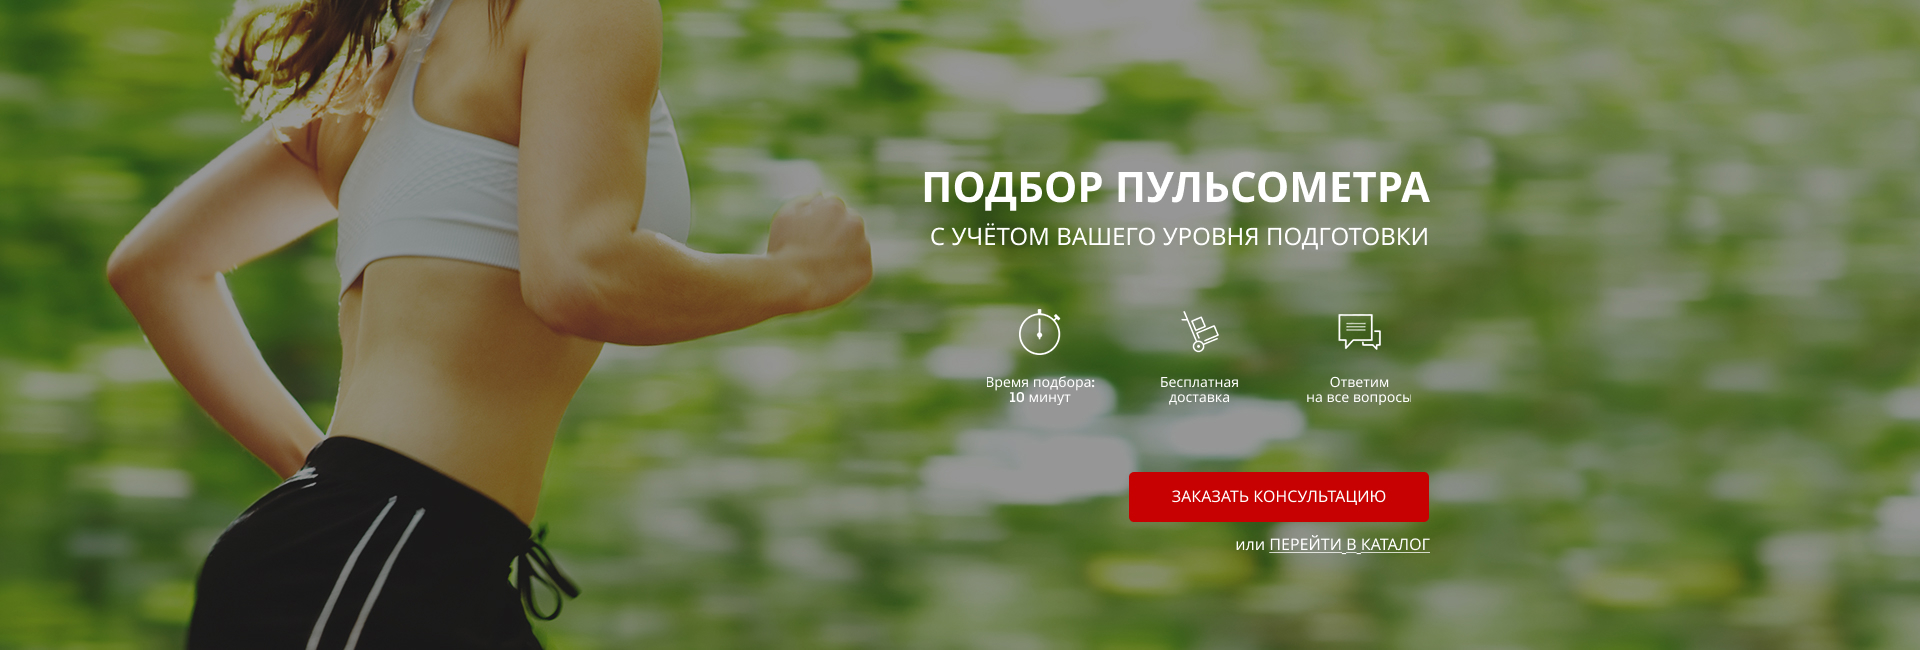
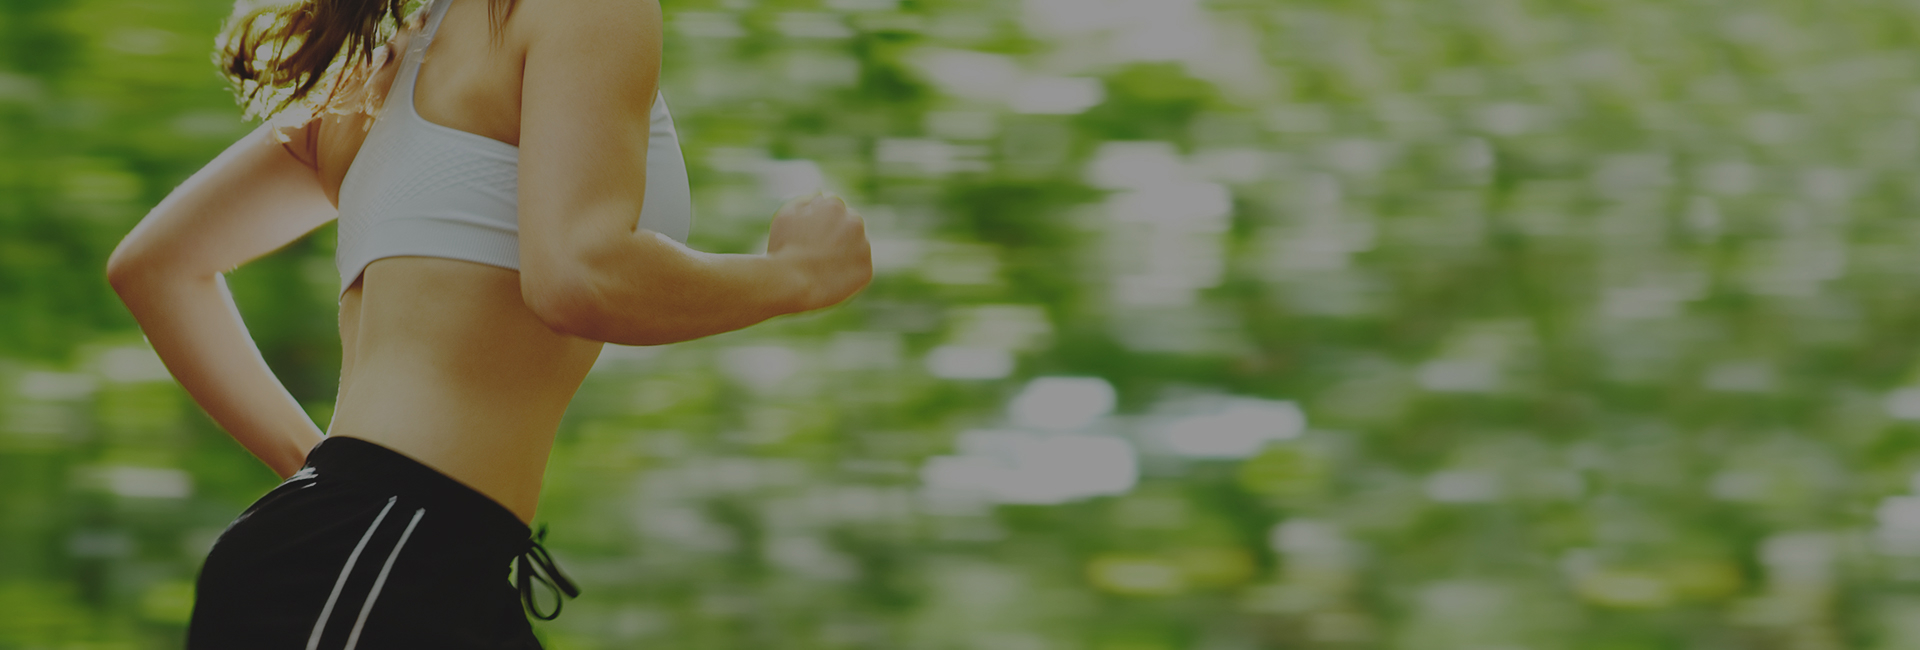
first section created

diff --git a/src/css/bootstrap-reboot.min.css b/src/css/bootstrap-reboot.min.css
@@ -1,0 +1,6 @@
+/*!
+ * Bootstrap Reboot v5.3.3 (https://getbootstrap.com/)
+ * Copyright 2011-2024 The Bootstrap Authors
+ * Licensed under MIT (https://github.com/twbs/bootstrap/blob/main/LICENSE)
+ */:root,[data-bs-theme=light]{--bs-blue:#0d6efd;--bs-indigo:#6610f2;--bs-purple:#6f42c1;--bs-pink:#d63384;--bs-red:#dc3545;--bs-orange:#fd7e14;--bs-yellow:#ffc107;--bs-green:#198754;--bs-teal:#20c997;--bs-cyan:#0dcaf0;--bs-black:#000;--bs-white:#fff;--bs-gray:#6c757d;--bs-gray-dark:#343a40;--bs-gray-100:#f8f9fa;--bs-gray-200:#e9ecef;--bs-gray-300:#dee2e6;--bs-gray-400:#ced4da;--bs-gray-500:#adb5bd;--bs-gray-600:#6c757d;--bs-gray-700:#495057;--bs-gray-800:#343a40;--bs-gray-900:#212529;--bs-primary:#0d6efd;--bs-secondary:#6c757d;--bs-success:#198754;--bs-info:#0dcaf0;--bs-warning:#ffc107;--bs-danger:#dc3545;--bs-light:#f8f9fa;--bs-dark:#212529;--bs-primary-rgb:13,110,253;--bs-secondary-rgb:108,117,125;--bs-success-rgb:25,135,84;--bs-info-rgb:13,202,240;--bs-warning-rgb:255,193,7;--bs-danger-rgb:220,53,69;--bs-light-rgb:248,249,250;--bs-dark-rgb:33,37,41;--bs-primary-text-emphasis:#052c65;--bs-secondary-text-emphasis:#2b2f32;--bs-success-text-emphasis:#0a3622;--bs-info-text-emphasis:#055160;--bs-warning-text-emphasis:#664d03;--bs-danger-text-emphasis:#58151c;--bs-light-text-emphasis:#495057;--bs-dark-text-emphasis:#495057;--bs-primary-bg-subtle:#cfe2ff;--bs-secondary-bg-subtle:#e2e3e5;--bs-success-bg-subtle:#d1e7dd;--bs-info-bg-subtle:#cff4fc;--bs-warning-bg-subtle:#fff3cd;--bs-danger-bg-subtle:#f8d7da;--bs-light-bg-subtle:#fcfcfd;--bs-dark-bg-subtle:#ced4da;--bs-primary-border-subtle:#9ec5fe;--bs-secondary-border-subtle:#c4c8cb;--bs-success-border-subtle:#a3cfbb;--bs-info-border-subtle:#9eeaf9;--bs-warning-border-subtle:#ffe69c;--bs-danger-border-subtle:#f1aeb5;--bs-light-border-subtle:#e9ecef;--bs-dark-border-subtle:#adb5bd;--bs-white-rgb:255,255,255;--bs-black-rgb:0,0,0;--bs-font-sans-serif:system-ui,-apple-system,"Segoe UI",Roboto,"Helvetica Neue","Noto Sans","Liberation Sans",Arial,sans-serif,"Apple Color Emoji","Segoe UI Emoji","Segoe UI Symbol","Noto Color Emoji";--bs-font-monospace:SFMono-Regular,Menlo,Monaco,Consolas,"Liberation Mono","Courier New",monospace;--bs-gradient:linear-gradient(180deg, rgba(255, 255, 255, 0.15), rgba(255, 255, 255, 0));--bs-body-font-family:var(--bs-font-sans-serif);--bs-body-font-size:1rem;--bs-body-font-weight:400;--bs-body-line-height:1.5;--bs-body-color:#212529;--bs-body-color-rgb:33,37,41;--bs-body-bg:#fff;--bs-body-bg-rgb:255,255,255;--bs-emphasis-color:#000;--bs-emphasis-color-rgb:0,0,0;--bs-secondary-color:rgba(33, 37, 41, 0.75);--bs-secondary-color-rgb:33,37,41;--bs-secondary-bg:#e9ecef;--bs-secondary-bg-rgb:233,236,239;--bs-tertiary-color:rgba(33, 37, 41, 0.5);--bs-tertiary-color-rgb:33,37,41;--bs-tertiary-bg:#f8f9fa;--bs-tertiary-bg-rgb:248,249,250;--bs-heading-color:inherit;--bs-link-color:#0d6efd;--bs-link-color-rgb:13,110,253;--bs-link-decoration:underline;--bs-link-hover-color:#0a58ca;--bs-link-hover-color-rgb:10,88,202;--bs-code-color:#d63384;--bs-highlight-color:#212529;--bs-highlight-bg:#fff3cd;--bs-border-width:1px;--bs-border-style:solid;--bs-border-color:#dee2e6;--bs-border-color-translucent:rgba(0, 0, 0, 0.175);--bs-border-radius:0.375rem;--bs-border-radius-sm:0.25rem;--bs-border-radius-lg:0.5rem;--bs-border-radius-xl:1rem;--bs-border-radius-xxl:2rem;--bs-border-radius-2xl:var(--bs-border-radius-xxl);--bs-border-radius-pill:50rem;--bs-box-shadow:0 0.5rem 1rem rgba(0, 0, 0, 0.15);--bs-box-shadow-sm:0 0.125rem 0.25rem rgba(0, 0, 0, 0.075);--bs-box-shadow-lg:0 1rem 3rem rgba(0, 0, 0, 0.175);--bs-box-shadow-inset:inset 0 1px 2px rgba(0, 0, 0, 0.075);--bs-focus-ring-width:0.25rem;--bs-focus-ring-opacity:0.25;--bs-focus-ring-color:rgba(13, 110, 253, 0.25);--bs-form-valid-color:#198754;--bs-form-valid-border-color:#198754;--bs-form-invalid-color:#dc3545;--bs-form-invalid-border-color:#dc3545}[data-bs-theme=dark]{color-scheme:dark;--bs-body-color:#dee2e6;--bs-body-color-rgb:222,226,230;--bs-body-bg:#212529;--bs-body-bg-rgb:33,37,41;--bs-emphasis-color:#fff;--bs-emphasis-color-rgb:255,255,255;--bs-secondary-color:rgba(222, 226, 230, 0.75);--bs-secondary-color-rgb:222,226,230;--bs-secondary-bg:#343a40;--bs-secondary-bg-rgb:52,58,64;--bs-tertiary-color:rgba(222, 226, 230, 0.5);--bs-tertiary-color-rgb:222,226,230;--bs-tertiary-bg:#2b3035;--bs-tertiary-bg-rgb:43,48,53;--bs-primary-text-emphasis:#6ea8fe;--bs-secondary-text-emphasis:#a7acb1;--bs-success-text-emphasis:#75b798;--bs-info-text-emphasis:#6edff6;--bs-warning-text-emphasis:#ffda6a;--bs-danger-text-emphasis:#ea868f;--bs-light-text-emphasis:#f8f9fa;--bs-dark-text-emphasis:#dee2e6;--bs-primary-bg-subtle:#031633;--bs-secondary-bg-subtle:#161719;--bs-success-bg-subtle:#051b11;--bs-info-bg-subtle:#032830;--bs-warning-bg-subtle:#332701;--bs-danger-bg-subtle:#2c0b0e;--bs-light-bg-subtle:#343a40;--bs-dark-bg-subtle:#1a1d20;--bs-primary-border-subtle:#084298;--bs-secondary-border-subtle:#41464b;--bs-success-border-subtle:#0f5132;--bs-info-border-subtle:#087990;--bs-warning-border-subtle:#997404;--bs-danger-border-subtle:#842029;--bs-light-border-subtle:#495057;--bs-dark-border-subtle:#343a40;--bs-heading-color:inherit;--bs-link-color:#6ea8fe;--bs-link-hover-color:#8bb9fe;--bs-link-color-rgb:110,168,254;--bs-link-hover-color-rgb:139,185,254;--bs-code-color:#e685b5;--bs-highlight-color:#dee2e6;--bs-highlight-bg:#664d03;--bs-border-color:#495057;--bs-border-color-translucent:rgba(255, 255, 255, 0.15);--bs-form-valid-color:#75b798;--bs-form-valid-border-color:#75b798;--bs-form-invalid-color:#ea868f;--bs-form-invalid-border-color:#ea868f}*,::after,::before{box-sizing:border-box}@media (prefers-reduced-motion:no-preference){:root{scroll-behavior:smooth}}body{margin:0;font-family:var(--bs-body-font-family);font-size:var(--bs-body-font-size);font-weight:var(--bs-body-font-weight);line-height:var(--bs-body-line-height);color:var(--bs-body-color);text-align:var(--bs-body-text-align);background-color:var(--bs-body-bg);-webkit-text-size-adjust:100%;-webkit-tap-highlight-color:transparent}hr{margin:1rem 0;color:inherit;border:0;border-top:var(--bs-border-width) solid;opacity:.25}h1,h2,h3,h4,h5,h6{margin-top:0;margin-bottom:.5rem;font-weight:500;line-height:1.2;color:var(--bs-heading-color)}h1{font-size:calc(1.375rem + 1.5vw)}@media (min-width:1200px){h1{font-size:2.5rem}}h2{font-size:calc(1.325rem + .9vw)}@media (min-width:1200px){h2{font-size:2rem}}h3{font-size:calc(1.3rem + .6vw)}@media (min-width:1200px){h3{font-size:1.75rem}}h4{font-size:calc(1.275rem + .3vw)}@media (min-width:1200px){h4{font-size:1.5rem}}h5{font-size:1.25rem}h6{font-size:1rem}p{margin-top:0;margin-bottom:1rem}abbr[title]{-webkit-text-decoration:underline dotted;text-decoration:underline dotted;cursor:help;-webkit-text-decoration-skip-ink:none;text-decoration-skip-ink:none}address{margin-bottom:1rem;font-style:normal;line-height:inherit}ol,ul{padding-left:2rem}dl,ol,ul{margin-top:0;margin-bottom:1rem}ol ol,ol ul,ul ol,ul ul{margin-bottom:0}dt{font-weight:700}dd{margin-bottom:.5rem;margin-left:0}blockquote{margin:0 0 1rem}b,strong{font-weight:bolder}small{font-size:.875em}mark{padding:.1875em;color:var(--bs-highlight-color);background-color:var(--bs-highlight-bg)}sub,sup{position:relative;font-size:.75em;line-height:0;vertical-align:baseline}sub{bottom:-.25em}sup{top:-.5em}a{color:rgba(var(--bs-link-color-rgb),var(--bs-link-opacity,1));text-decoration:underline}a:hover{--bs-link-color-rgb:var(--bs-link-hover-color-rgb)}a:not([href]):not([class]),a:not([href]):not([class]):hover{color:inherit;text-decoration:none}code,kbd,pre,samp{font-family:var(--bs-font-monospace);font-size:1em}pre{display:block;margin-top:0;margin-bottom:1rem;overflow:auto;font-size:.875em}pre code{font-size:inherit;color:inherit;word-break:normal}code{font-size:.875em;color:var(--bs-code-color);word-wrap:break-word}a>code{color:inherit}kbd{padding:.1875rem .375rem;font-size:.875em;color:var(--bs-body-bg);background-color:var(--bs-body-color);border-radius:.25rem}kbd kbd{padding:0;font-size:1em}figure{margin:0 0 1rem}img,svg{vertical-align:middle}table{caption-side:bottom;border-collapse:collapse}caption{padding-top:.5rem;padding-bottom:.5rem;color:var(--bs-secondary-color);text-align:left}th{text-align:inherit;text-align:-webkit-match-parent}tbody,td,tfoot,th,thead,tr{border-color:inherit;border-style:solid;border-width:0}label{display:inline-block}button{border-radius:0}button:focus:not(:focus-visible){outline:0}button,input,optgroup,select,textarea{margin:0;font-family:inherit;font-size:inherit;line-height:inherit}button,select{text-transform:none}[role=button]{cursor:pointer}select{word-wrap:normal}select:disabled{opacity:1}[list]:not([type=date]):not([type=datetime-local]):not([type=month]):not([type=week]):not([type=time])::-webkit-calendar-picker-indicator{display:none!important}[type=button],[type=reset],[type=submit],button{-webkit-appearance:button}[type=button]:not(:disabled),[type=reset]:not(:disabled),[type=submit]:not(:disabled),button:not(:disabled){cursor:pointer}::-moz-focus-inner{padding:0;border-style:none}textarea{resize:vertical}fieldset{min-width:0;padding:0;margin:0;border:0}legend{float:left;width:100%;padding:0;margin-bottom:.5rem;font-size:calc(1.275rem + .3vw);line-height:inherit}@media (min-width:1200px){legend{font-size:1.5rem}}legend+*{clear:left}::-webkit-datetime-edit-day-field,::-webkit-datetime-edit-fields-wrapper,::-webkit-datetime-edit-hour-field,::-webkit-datetime-edit-minute,::-webkit-datetime-edit-month-field,::-webkit-datetime-edit-text,::-webkit-datetime-edit-year-field{padding:0}::-webkit-inner-spin-button{height:auto}[type=search]{-webkit-appearance:textfield;outline-offset:-2px}::-webkit-search-decoration{-webkit-appearance:none}::-webkit-color-swatch-wrapper{padding:0}::-webkit-file-upload-button{font:inherit;-webkit-appearance:button}::file-selector-button{font:inherit;-webkit-appearance:button}output{display:inline-block}iframe{border:0}summary{display:list-item;cursor:pointer}progress{vertical-align:baseline}[hidden]{display:none!important}
+/*# sourceMappingURL=bootstrap-reboot.min.css.map */

diff --git a/src/css/fonts.css b/src/css/fonts.css
@@ -2,110 +2,110 @@
 
 @font-face {
 	font-family: 'Museo Sans Cyrl 500';
-	src: url('../fonts/MuseoSansCyrl-500.eot');
-	src: local('../fonts/MuseoSansCyrl-500'),
-		url('../fonts/MuseoSansCyrl-500.eot?#iefix') format('embedded-opentype'),
-		url('../fonts/MuseoSansCyrl-500.woff') format('woff'),
-		url('../fonts/MuseoSansCyrl-500.ttf') format('truetype');
-	font-weight: normal;
+	src: url('MuseoSansCyrl-500.eot');
+	src: local('MuseoSansCyrl-500'),
+		url('MuseoSansCyrl-500.eot?#iefix') format('embedded-opentype'),
+		url('MuseoSansCyrl-500.woff') format('woff'),
+		url('MuseoSansCyrl-500.ttf') format('truetype');
+	font-weight: 500;
 	font-style: normal;
 }
 
 @font-face {
 	font-family: 'Museo Sans Cyrl 300';
-	src: url('../fonts/MuseoSansCyrl-300Italic.eot');
-	src: local('../fonts/MuseoSansCyrl-300Italic'),
-		url('../fonts/MuseoSansCyrl-300Italic.eot?#iefix') format('embedded-opentype'),
-		url('../fonts/MuseoSansCyrl-300Italic.woff') format('woff'),
-		url('../fonts/MuseoSansCyrl-300Italic.ttf') format('truetype');
+	src: url('MuseoSansCyrl-300Italic.eot');
+	src: local('MuseoSansCyrl-300Italic'),
+		url('MuseoSansCyrl-300Italic.eot?#iefix') format('embedded-opentype'),
+		url('MuseoSansCyrl-300Italic.woff') format('woff'),
+		url('MuseoSansCyrl-300Italic.ttf') format('truetype');
 	font-weight: 300;
 	font-style: italic;
 }
 
 @font-face {
 	font-family: 'Museo Sans Cyrl 500';
-	src: url('../fonts/MuseoSansCyrl-500Italic.eot');
-	src: local('../fonts/MuseoSansCyrl-500Italic'),
-		url('../fonts/MuseoSansCyrl-500Italic.eot?#iefix') format('embedded-opentype'),
-		url('../fonts/MuseoSansCyrl-500Italic.woff') format('woff'),
-		url('../fonts/MuseoSansCyrl-500Italic.ttf') format('truetype');
-	font-weight: normal;
+	src: url('MuseoSansCyrl-500Italic.eot');
+	src: local('MuseoSansCyrl-500Italic'),
+		url('MuseoSansCyrl-500Italic.eot?#iefix') format('embedded-opentype'),
+		url('MuseoSansCyrl-500Italic.woff') format('woff'),
+		url('MuseoSansCyrl-500Italic.ttf') format('truetype');
+	font-weight: 500;
 	font-style: italic;
 }
 
 @font-face {
 	font-family: 'Museo Sans Cyrl 900';
-	src: url('../fonts/MuseoSansCyrl-900.eot');
-	src: local('../fonts/MuseoSansCyrl-900'),
-		url('../fonts/MuseoSansCyrl-900.eot?#iefix') format('embedded-opentype'),
-		url('../fonts/MuseoSansCyrl-900.woff') format('woff'),
-		url('../fonts/MuseoSansCyrl-900.ttf') format('truetype');
+	src: url('MuseoSansCyrl-900.eot');
+	src: local('MuseoSansCyrl-900'),
+		url('MuseoSansCyrl-900.eot?#iefix') format('embedded-opentype'),
+		url('MuseoSansCyrl-900.woff') format('woff'),
+		url('MuseoSansCyrl-900.ttf') format('truetype');
 	font-weight: bold;
 	font-style: normal;
 }
 
 @font-face {
 	font-family: 'Museo Sans Cyrl 700';
-	src: url('../fonts/MuseoSansCyrl-700.eot');
-	src: local('../fonts/MuseoSansCyrl-700'),
-		url('../fonts/MuseoSansCyrl-700.eot?#iefix') format('embedded-opentype'),
-		url('../fonts/MuseoSansCyrl-700.woff') format('woff'),
-		url('../fonts/MuseoSansCyrl-700.ttf') format('truetype');
-	font-weight: normal;
+	src: url('MuseoSansCyrl-700.eot');
+	src: local('MuseoSansCyrl-700'),
+		url('MuseoSansCyrl-700.eot?#iefix') format('embedded-opentype'),
+		url('MuseoSansCyrl-700.woff') format('woff'),
+		url('MuseoSansCyrl-700.ttf') format('truetype');
+	font-weight: 700;
 	font-style: normal;
 }
 
 @font-face {
 	font-family: 'Museo Sans Cyrl 700';
-	src: url('../fonts/MuseoSansCyrl-700Italic.eot');
-	src: local('../fonts/MuseoSansCyrl-700Italic'),
-		url('../fonts/MuseoSansCyrl-700Italic.eot?#iefix') format('embedded-opentype'),
-		url('../fonts/MuseoSansCyrl-700Italic.woff') format('woff'),
-		url('../fonts/MuseoSansCyrl-700Italic.ttf') format('truetype');
-	font-weight: normal;
+	src: url('MuseoSansCyrl-700Italic.eot');
+	src: local('MuseoSansCyrl-700Italic'),
+		url('MuseoSansCyrl-700Italic.eot?#iefix') format('embedded-opentype'),
+		url('MuseoSansCyrl-700Italic.woff') format('woff'),
+		url('MuseoSansCyrl-700Italic.ttf') format('truetype');
+	font-weight: 700;
 	font-style: italic;
 }
 
 @font-face {
 	font-family: 'Museo Sans Cyrl 300';
-	src: url('../fonts/MuseoSansCyrl-300.eot');
-	src: local('../fonts/MuseoSansCyrl-300'),
-		url('../fonts/MuseoSansCyrl-300.eot?#iefix') format('embedded-opentype'),
-		url('../fonts/MuseoSansCyrl-300.woff') format('woff'),
-		url('../fonts/MuseoSansCyrl-300.ttf') format('truetype');
+	src: url('MuseoSansCyrl-300.eot');
+	src: local('MuseoSansCyrl-300'),
+		url('MuseoSansCyrl-300.eot?#iefix') format('embedded-opentype'),
+		url('MuseoSansCyrl-300.woff') format('woff'),
+		url('MuseoSansCyrl-300.ttf') format('truetype');
 	font-weight: 300;
 	font-style: normal;
 }
 
 @font-face {
 	font-family: 'Museo Sans Cyrl 100';
-	src: url('../fonts/MuseoSansCyrl-100.eot');
-	src: local('../fonts/MuseoSansCyrl-100'),
-		url('../fonts/MuseoSansCyrl-100.eot?#iefix') format('embedded-opentype'),
-		url('../fonts/MuseoSansCyrl-100.woff') format('woff'),
-		url('../fonts/MuseoSansCyrl-100.ttf') format('truetype');
+	src: url('MuseoSansCyrl-100.eot');
+	src: local('MuseoSansCyrl-100'),
+		url('MuseoSansCyrl-100.eot?#iefix') format('embedded-opentype'),
+		url('MuseoSansCyrl-100.woff') format('woff'),
+		url('MuseoSansCyrl-100.ttf') format('truetype');
 	font-weight: 300;
 	font-style: normal;
 }
 
 @font-face {
 	font-family: 'Museo Sans Cyrl 100';
-	src: url('../fonts/MuseoSansCyrl-100Italic.eot');
-	src: local('../fonts/MuseoSansCyrl-100Italic'),
-		url('../fonts/MuseoSansCyrl-100Italic.eot?#iefix') format('embedded-opentype'),
-		url('../fonts/MuseoSansCyrl-100Italic.woff') format('woff'),
-		url('../fonts/MuseoSansCyrl-100Italic.ttf') format('truetype');
+	src: url('MuseoSansCyrl-100Italic.eot');
+	src: local('MuseoSansCyrl-100Italic'),
+		url('MuseoSansCyrl-100Italic.eot?#iefix') format('embedded-opentype'),
+		url('MuseoSansCyrl-100Italic.woff') format('woff'),
+		url('MuseoSansCyrl-100Italic.ttf') format('truetype');
 	font-weight: 300;
 	font-style: italic;
 }
 
 @font-face {
 	font-family: 'Museo Sans Cyrl 900';
-	src: url('../fonts/MuseoSansCyrl-900Italic.eot');
-	src: local('../fonts/Museo Sans Cyrl 900 Italic'), local('MuseoSansCyrl-900Italic'),
-		url('../fonts/MuseoSansCyrl-900Italic.eot?#iefix') format('embedded-opentype'),
-		url('../fonts/MuseoSansCyrl-900Italic.woff') format('woff'),
-		url('../fonts/MuseoSansCyrl-900Italic.ttf') format('truetype');
+	src: url('MuseoSansCyrl-900Italic.eot');
+	src: local('Museo Sans Cyrl 900 Italic'), local('MuseoSansCyrl-900Italic'),
+		url('MuseoSansCyrl-900Italic.eot?#iefix') format('embedded-opentype'),
+		url('MuseoSansCyrl-900Italic.woff') format('woff'),
+		url('MuseoSansCyrl-900Italic.ttf') format('truetype');
 	font-weight: bold;
 	font-style: italic;
 }

diff --git a/src/index.html b/src/index.html
@@ -3,8 +3,53 @@
 <head>
   <meta charset="UTF-8">
   <title>Title</title>
+  <link rel="stylesheet" href="css/fonts.css">
+  <link rel="stylesheet" href="css/bootstrap-reboot.min.css">
+  <link rel="stylesheet" href="css/style.min.css">
 </head>
 <body>
+<div class="promo">
+  <div class="container">
+    <header class="header">
+      <a href="#" class="header__logo">
+        <img src="icons/main_logo.png" alt="logo">
+      </a>
+      <div class="header__official">
+        Официальный представитель
+        <span>Garmin, Polar, Suunto</span>
+      </div>
+      <div class="header__connection">
+        <a href="tel:+74999228974" class="header__phone">+7 (499) 922-89-74 </a>
+        <button class="button">заказать звонок</button>
+      </div>
+    </header>
 
+    <div class="promo__wrapper">
+      <h1 class="promo__title">Подбор пульсометра</h1>
+      <h2 class="promo__subtitle">с учётом Вашего уровня подготовки</h2>
+
+      <div class="promo__icons">
+        <div class="promo__icon">
+          <img src="icons/main_screen/timer.png" alt="timer">
+          Время подбора: 10 минут
+        </div>
+        <div class="promo__icon">
+          <img src="icons/main_screen/hand-cart.png" alt="hand-cart">
+          Бесплатная доставка
+        </div>
+        <div class="promo__icon">
+          <img src="icons/main_screen/messages.png" alt="messages">
+          Ответим на все вопросы
+        </div>
+      </div>
+
+      <button class="button button_main">заказать консультацию</button>
+      <div class="promo__link">
+        или
+        <a href="#">ПЕРЕЙТИ В КАТАЛОГ</a>
+      </div>
+    </div>
+  </div>
+</div>
 </body>
 </html>

diff --git a/src/css/style.min.css b/src/css/style.min.css
@@ -1,0 +1,1 @@
+*{font-family:"Museo Sans Cyrl",sans-serif}.container{max-width:950px;margin:0 auto}.promo{min-height:650px;padding:21px 0 93px 0;background-image:url(../../images/main_bg.jpg);background-size:cover;background-repeat:no-repeat}.promo__wrapper{display:flex;flex-direction:column;align-items:flex-end;margin-top:91px}.promo__title{font-weight:700;font-size:42px;line-height:42px;text-transform:uppercase;color:#fff}.promo__subtitle{margin-top:17px;font-weight:500;font-size:24px;line-height:24px;text-transform:uppercase;color:#fff}.promo__icons{display:flex;justify-content:space-between;align-items:center;margin-top:60px}.promo__icon{width:108px;display:flex;flex-direction:column;align-items:center;font-weight:500;font-size:14px;text-align:center;color:#fff;margin-right:39px}.promo__icon:last-child{margin-right:0}.promo__icon img{margin-bottom:20px}.promo__link{margin-top:8px;font-weight:500;font-size:16px;color:#fff}.promo__link a{color:#fff;text-transform:uppercase;text-decoration:underline;-webkit-text-decoration-skip-ink:none;text-decoration-skip-ink:none}.header{display:flex;justify-content:space-between;align-items:center}.header__logo{width:250px}.header__logo img{width:100%}.header__official{font-weight:500;font-size:12px;text-align:center;color:#fff}.header__official span{display:block;font-size:18px}.header__connection{display:flex;flex-direction:column;align-items:flex-end}.header__phone{display:block;font-weight:700;font-size:18px;text-decoration:none;color:#fff}.button{width:150px;height:30px;background-color:#c70101;border:none;border-radius:5px;font-weight:500;font-size:12px;text-transform:uppercase;text-align:center;color:#fff}.button_main{margin-top:67px;width:303px;height:54px;font-size:16px}

diff --git a/src/sass/blocks/_promo.scss b/src/sass/blocks/_promo.scss
@@ -1,0 +1,73 @@
+.promo {
+	min-height: 650px;
+	padding: 21px 0 93px 0;
+	background-image: url("../../images/main_bg.jpg");
+	background-size: cover;
+	background-repeat: no-repeat;
+
+	&__wrapper {
+		display: flex;
+		flex-direction: column;
+		align-items: flex-end;
+		margin-top: 91px;
+	}
+
+	&__title {
+		font-weight: 700;
+		font-size: 42px;
+		line-height: 42px;
+		text-transform: uppercase;
+		color: #ffffff;
+	}
+
+	&__subtitle {
+		margin-top: 17px;
+		font-weight: 500;
+		font-size: 24px;
+		line-height: 24px;
+		text-transform: uppercase;
+		color: #ffffff;
+	}
+
+	&__icons {
+		display: flex;
+		justify-content: space-between;
+		align-items: center;
+		margin-top: 60px;
+	}
+
+	&__icon {
+		width: 108px;
+		display: flex;
+		flex-direction: column;
+		align-items: center;
+		font-weight: 500;
+		font-size: 14px;
+		//line-height: 100%;
+		text-align: center;
+		color: #ffffff;
+		margin-right: 39px;
+
+		&:last-child {
+			margin-right: 0;
+		}
+
+		img {
+			margin-bottom: 20px;
+		}
+	}
+
+	&__link {
+		margin-top: 8px;
+		font-weight: 500;
+		font-size: 16px;
+		color: #fff;
+
+		a {
+			color: #fff;
+			text-transform: uppercase;
+			text-decoration: underline;
+			text-decoration-skip-ink: none;
+		}
+	}
+}

diff --git a/src/sass/blocks/_header.scss b/src/sass/blocks/_header.scss
@@ -1,0 +1,40 @@
+.header {
+	display: flex;
+	justify-content: space-between;
+	align-items: center;
+
+	&__logo {
+		width: 250px;
+
+		img {
+			width: 100%;
+		}
+	}
+
+	&__official {
+		font-weight: 500;
+		font-size: 12px;
+		text-align: center;
+		color: #ffffff;
+
+		span {
+			display: block;
+			font-size: 18px;
+		}
+	}
+
+	&__connection {
+		display: flex;
+		flex-direction: column;
+		align-items: flex-end;
+	}
+
+	&__phone {
+		display: block;
+		font-weight: 700;
+		font-size: 18px;
+		//line-height: 100%;
+		text-decoration: none;
+		color: #ffffff;
+	}
+}

diff --git a/src/sass/blocks/_buttons.scss b/src/sass/blocks/_buttons.scss
@@ -1,0 +1,18 @@
+.button {
+	width: 150px;
+	height: 30px;
+	background-color: $main-color;
+	border: none;
+	border-radius: 5px;
+	font-weight: 500;
+	font-size: 12px;
+	text-transform: uppercase;
+	text-align: center;
+	color: #ffffff;
+	&_main {
+		margin-top: 67px;
+		width: 303px;
+		height: 54px;
+		font-size: 16px;
+	}
+}

diff --git a/src/sass/style.scss b/src/sass/style.scss
@@ -1,0 +1,15 @@
+@import "base/variables";
+
+* {
+	font-family: 'Museo Sans Cyrl', sans-serif;
+
+}
+
+.container {
+	max-width: 950px;
+	margin: 0 auto;
+}
+
+@import "blocks/promo";
+@import "blocks/header";
+@import "blocks/buttons";

diff --git a/src/sass/base/_variables.scss b/src/sass/base/_variables.scss
@@ -1,0 +1,1 @@
+$main-color: #c70101
